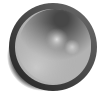
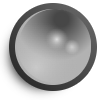
update shift size switches to use png

Changed region(s): [[0.03, 0.36, 0.57, 0.96]]

diff --git a/RCEveryGain.cpp b/RCEveryGain.cpp
@@ -84,13 +84,14 @@ RCEveryGain::RCEveryGain(const InstanceInfo& info)
 
     const IBitmap shiftMacroSwitchOnPNG = pGraphics->LoadBitmap(PNGSHIFTMACROSWITCHON_FN);
     const IBitmap shiftMacroSwitchOffPNG = pGraphics->LoadBitmap(PNGSHIFTMACROSWITCHOFF_FN);
-    const std::array<float, 4> shift_macro_text_offset = {8.f, 0.f, 8.f, 0.f};
-    pGraphics->AttachControl(new PNGTabSwitchControl(shift_bulbs_macro, kShiftMacro, shiftMacroSwitchOffPNG, shiftMacroSwitchOnPNG, {}, "", 0.f, shift_style, shift_macro_text_offset));
+    const std::array<float, 4> shift_macro_text_offset = {0.f, 0.f, 0.f, 0.f};
+    pGraphics->AttachControl(
+      new PNGTabSwitchControl(shift_bulbs_macro, kShiftMacro, shiftMacroSwitchOffPNG, shiftMacroSwitchOnPNG, {}, "", 0.f, shift_style, shift_macro_text_offset, ETabSwitchHighlightMode::FromCenter));
 
-    const ISVG shiftSizeSwitchOnSVG = pGraphics->LoadSVG(SVGSHIFTSIZESWITCHON_FN);
-    const ISVG shiftSizeSwitchOffSVG = pGraphics->LoadSVG(SVGSHIFTSIZESWITCHOFF_FN);
-    const std::array<float, 4> shift_size_text_offset = {0.f, -8.f, 0.f, 0.f};
-    pGraphics->AttachControl(new SVGTabSwitchControl(shift_control_size, kShiftSize, shiftSizeSwitchOffSVG, shiftSizeSwitchOnSVG, {}, "", 0.f, shift_style, shift_size_text_offset));
+    const IBitmap shiftSizeSwitchOnPNG = pGraphics->LoadBitmap(PNGSHIFTSIZESWITCHON_FN);
+    const IBitmap shiftSizeSwitchOffPNG = pGraphics->LoadBitmap(PNGSHIFTSIZESWITCHOFF_FN);
+    const std::array<float, 4> shift_size_text_offset = {0.f, -2.f, 0.f, 0.f};
+    pGraphics->AttachControl(new PNGTabSwitchControl(shift_control_size, kShiftSize, shiftSizeSwitchOffPNG, shiftSizeSwitchOnPNG, {}, "", 0.f, shift_style, shift_size_text_offset));
 
     // Fader Section
     // const IRECT fader_inner = fader.GetPadded(-4.0);

diff --git a/config.h b/config.h
@@ -61,5 +61,6 @@
 #define PNGBACKGROUND_2X_FN "bg@2x.png"
 #define PNGSHIFTMACROSWITCHON_FN "shift_macro_switch_on.png"
 #define PNGSHIFTMACROSWITCHOFF_FN "shift_macro_switch_off.png"
-#define SVGSHIFTSIZESWITCHON_FN "shift_size_switch_on.svg"
-#define SVGSHIFTSIZESWITCHOFF_FN "shift_size_switch_off.svg"
+#define PNGSHIFTSIZESWITCHON_FN "shift_size_switch_on.png"
+#define PNGSHIFTSIZESWITCHOFF_FN "shift_size_switch_off.png"
+
